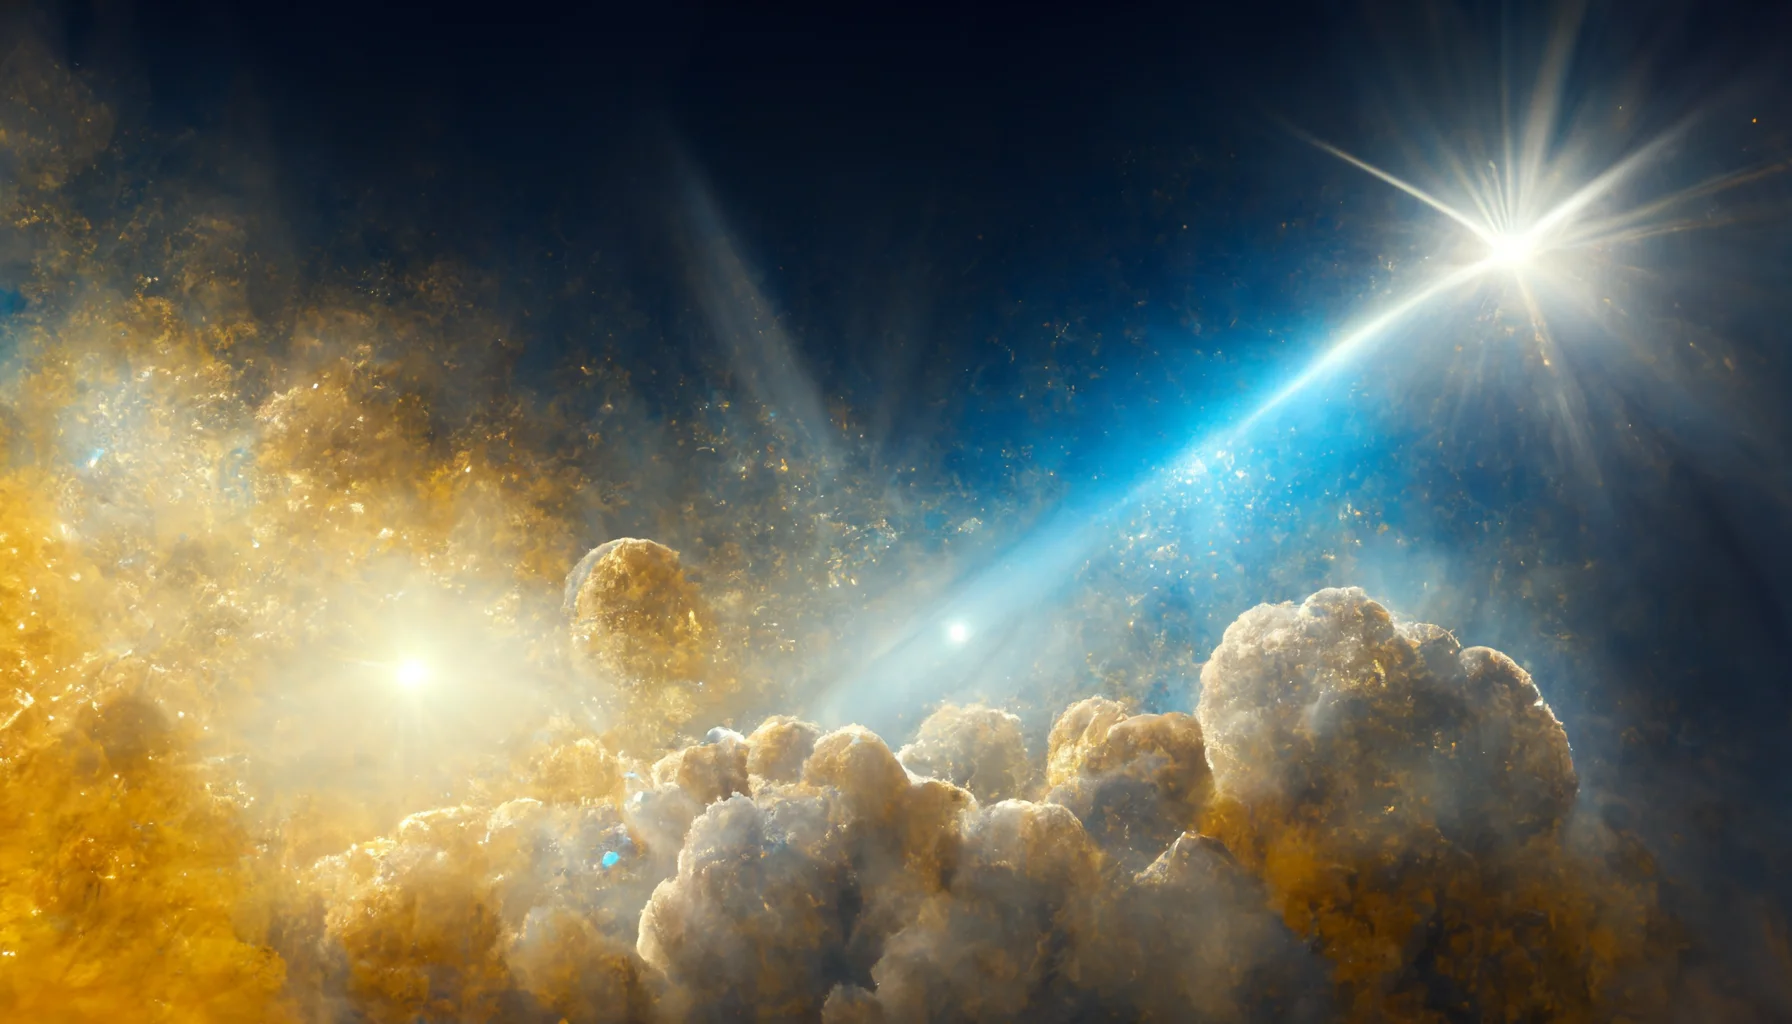
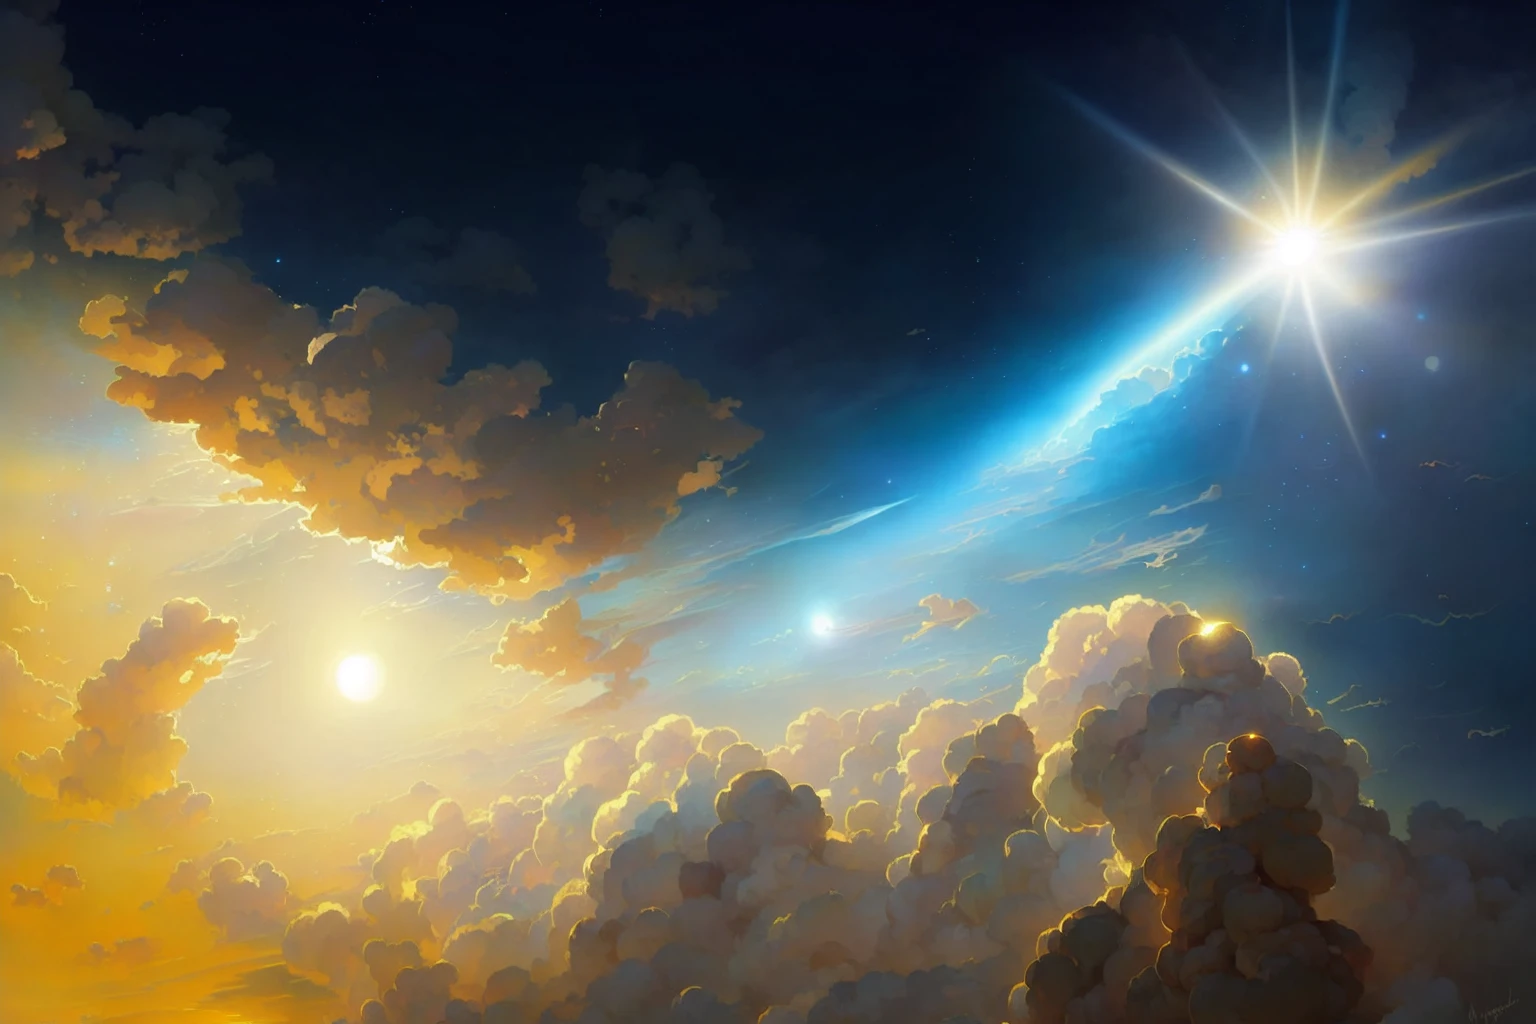
feat: update all images with Stable Diffusion

diff --git a/src/sections/Hero.tsx b/src/sections/Hero.tsx
@@ -24,16 +24,8 @@ const Hero = () => {
             },
           },
           {
-            image: '/assets/images/hero_bg_plan_3.webp',
+            image: '/assets/images/hero_bg_plan_1.webp',
             speed: -40,
-            style: {
-              backgroundSize: isDesktop ? 'contain' : 'auto',
-              backgroundPosition: isDesktop ? 'center' : 'right',
-            },
-          },
-          {
-            image: '/assets/images/hero_bg_plan_2.webp',
-            speed: -30,
             style: {
               backgroundSize: isDesktop ? 'contain' : 'auto',
               backgroundPosition: isDesktop ? 'center' : 'right',
@@ -46,12 +38,20 @@ const Hero = () => {
             rotate: [0, 40],
             style: {
               backgroundSize: isDesktop ? '100px' : 0,
-              backgroundPosition: 'bottom 10% left 50%',
+              backgroundPosition: 'bottom 0 left 57%',
               backgroundRepeat: 'no-repeat',
             },
           },
           {
-            image: '/assets/images/hero_bg_plan_1.webp',
+            image: '/assets/images/hero_bg_plan_2.webp',
+            speed: -30,
+            style: {
+              backgroundSize: isDesktop ? 'contain' : 'auto',
+              backgroundPosition: isDesktop ? 'center' : 'right',
+            },
+          },
+          {
+            image: '/assets/images/hero_bg_plan_3.webp',
             speed: -20,
             style: {
               backgroundSize: isDesktop ? 'contain' : 'auto',
@@ -72,7 +72,7 @@ const Hero = () => {
       >
         <div className="absolute h-full w-full animate-pulse-slow bg-black/10" />
         <div className="hero min-h-screen bg-base-200">
-          <h1 className="absolute bottom-8 left-8 font-hero text-5xl font-extrabold text-stone-50/10 mix-blend-overlay md:text-7xl lg:text-9xl">
+          <h1 className="absolute bottom-0 left-8 font-hero text-5xl font-extrabold text-stone-50/10 mix-blend-overlay md:text-7xl lg:text-9xl">
             Solaris
           </h1>
           <div className="hero-content flex flex-col text-center">
@@ -114,7 +114,7 @@ const Hero = () => {
               />
             </div>
             <Link href="#start">
-              <a className="btn glass btn-circle animate-bounce-slow text-primary-500 transition">
+              <a className="btn btn-circle glass animate-bounce-slow text-primary-500 transition">
                 <HiChevronDoubleDown className="text-lg" />
               </a>
             </Link>

diff --git a/src/pages/tools/index.tsx b/src/pages/tools/index.tsx
@@ -14,14 +14,14 @@ const data = [
     text: 'Découvrez les infographies de la guilde préparées spécialement pour vous dans différents formats téléchargeables.',
     url: '/tools/kiosque',
     color: 'border-stone-600',
-    image: '/assets/images/nightcity.webp',
+    image: '/assets/images/kiosk.webp',
   },
   {
     title: 'Dock',
     text: 'Découvrez toutes les données des vaisseaux du jeu condensées en une application simple et intuitive.',
     url: '/tools/dock',
     color: 'border-stone-700',
-    image: '/assets/images/spaceship.webp',
+    image: '/assets/images/dock.webp',
   },
 ];
 
@@ -34,7 +34,7 @@ const Tools = () => {
 
   return (
     <Index>
-      <Page title="Outils" image="/assets/images/workshop.webp" screenHeight>
+      <Page title="Outils" image="/assets/images/tools.webp" screenHeight>
         <div className="flex h-full w-full max-w-6xl justify-center">
           {data.map(({ title, text, url, color, image }, index) => (
             <div

diff --git a/src/pages/tools/kiosque/index.tsx b/src/pages/tools/kiosque/index.tsx
@@ -24,7 +24,7 @@ const DownloadLink = ({ url, ext }) => (
 const Tools = () => {
   return (
     <Index>
-      <Page title="Kiosque" image="/assets/images/information.webp">
+      <Page title="Kiosque" image="/assets/images/kiosk.webp">
         <div className="flex w-full flex-col items-center justify-center">
           <InnerSectionBlock bgColor={'from-primary-500/40'}>
             <div className="flex w-full flex-col items-start space-y-24">

diff --git a/src/pages/guild/index.tsx b/src/pages/guild/index.tsx
@@ -79,7 +79,7 @@ const Guild = () => {
                 <ResourcesBlock data={resources} />
               </div>
             </InnerSectionBlock>
-            <ParallaxBlock image="/assets/images/spaceship.webp" speed={-25} />
+            <ParallaxBlock image="/assets/images/spaceship.webp" speed={-30} />
           </div>
         </Section>
         <Section title="profils" number="04" bgColor="bg-stone-50" uppercase>

diff --git a/src/components/DividerTop.tsx b/src/components/DividerTop.tsx
@@ -1,7 +1,7 @@
 const DividerTop = () => {
   return (
     <div className="relative">
-      <div className="absolute -top-24 z-0 h-24 w-full bg-gradient-to-t from-stone-50 md:-top-48 md:h-48" />
+      <div className="absolute -top-24 z-0 h-24 w-full bg-gradient-to-t from-stone-50 md:-top-32 md:h-32" />
     </div>
   );
 };

diff --git a/src/components/guild/ParallaxBlock.tsx b/src/components/guild/ParallaxBlock.tsx
@@ -8,7 +8,6 @@ export const ParallaxBlock = ({ image, speed }) => (
         speed,
         style: {
           backgroundSize: 'cover',
-          filter: 'contrast(0.8) hue-rotate(-5deg)',
         },
       },
     ]}

diff --git a/README.md b/README.md
@@ -12,5 +12,4 @@
 
 ## Artworks
 
-- Midjourney
-- Dall-E 2
+- Stable Diffusion
